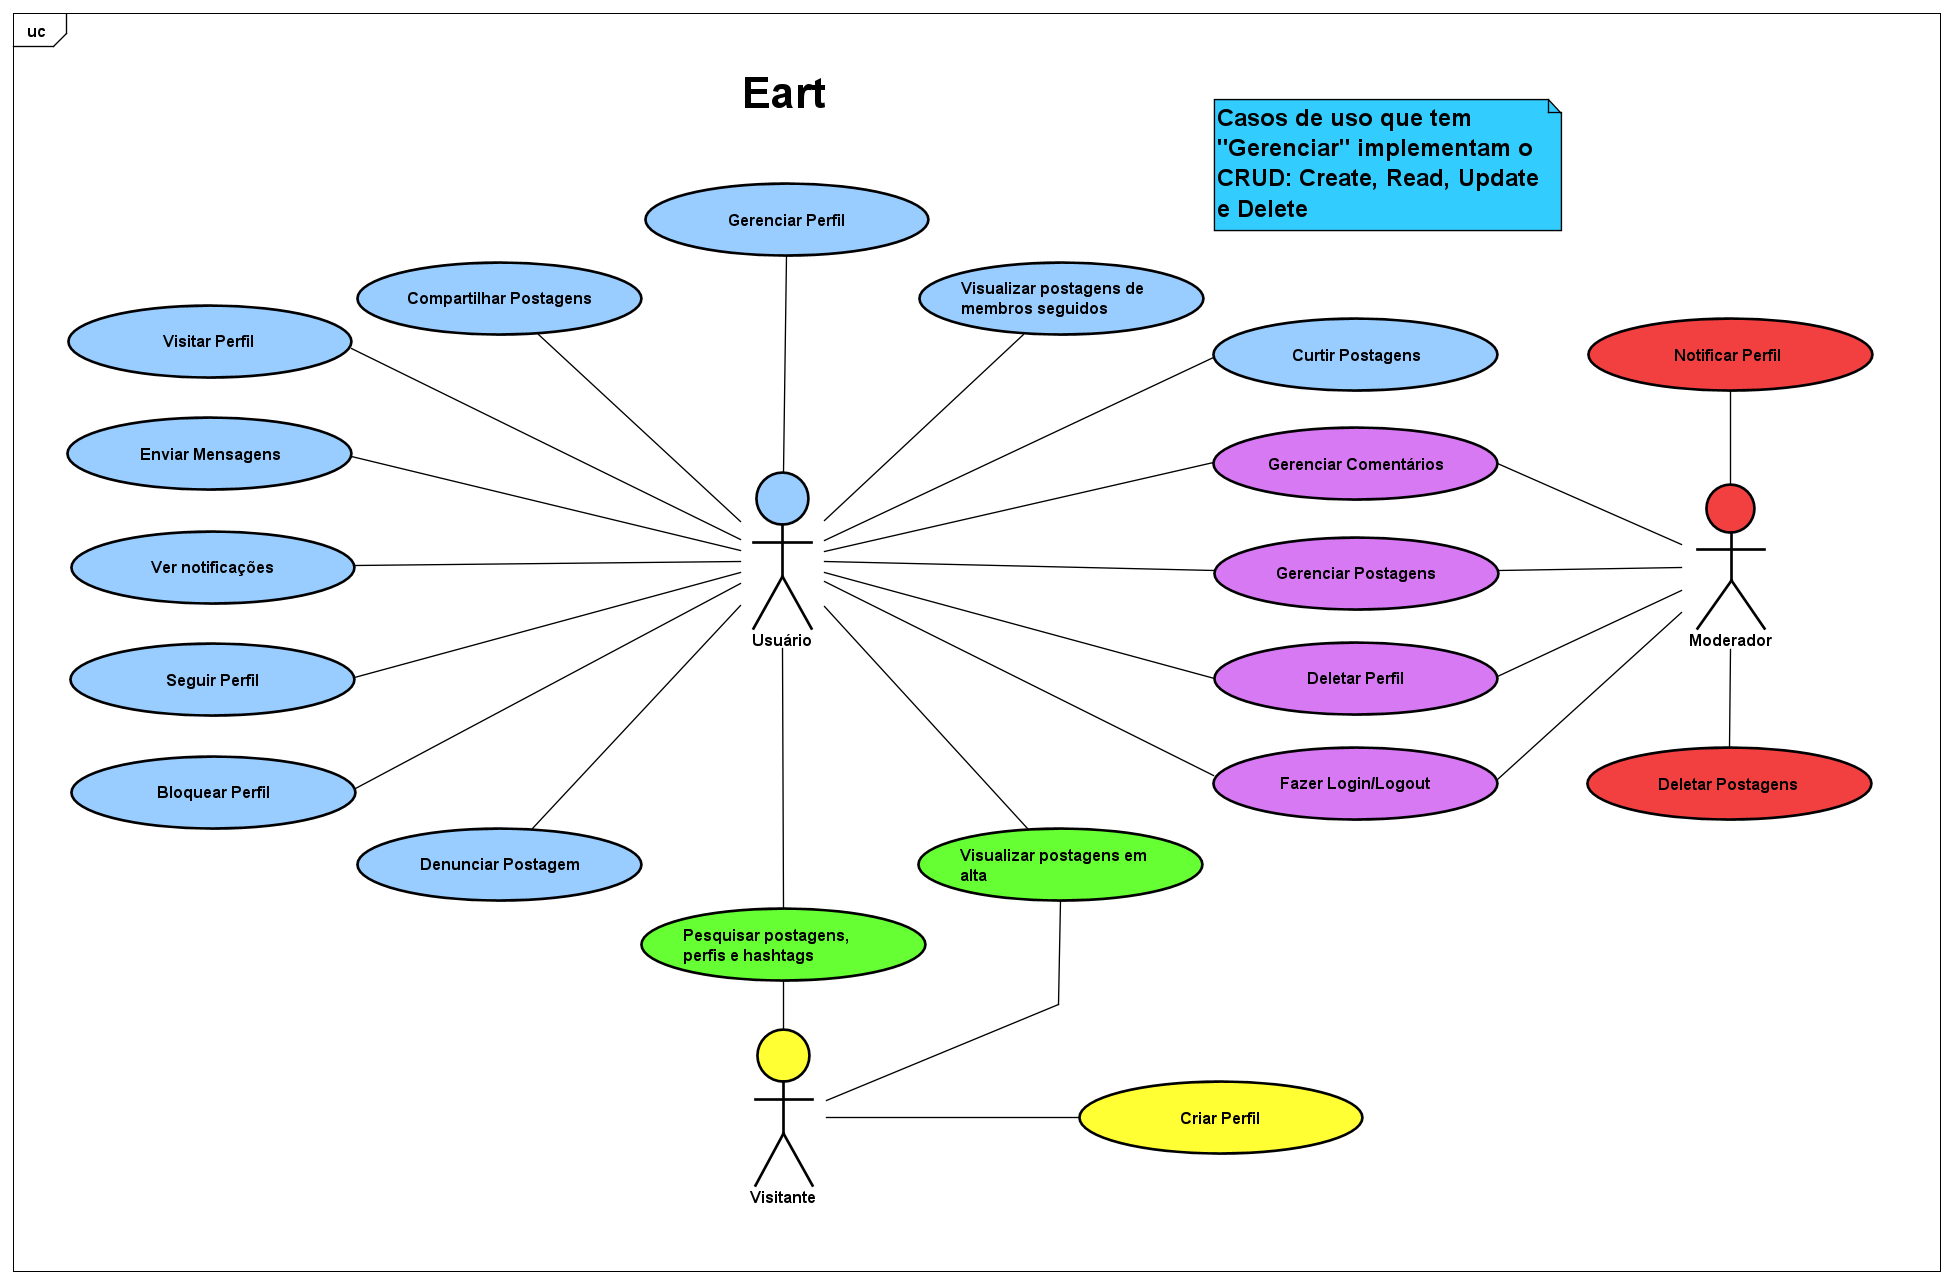
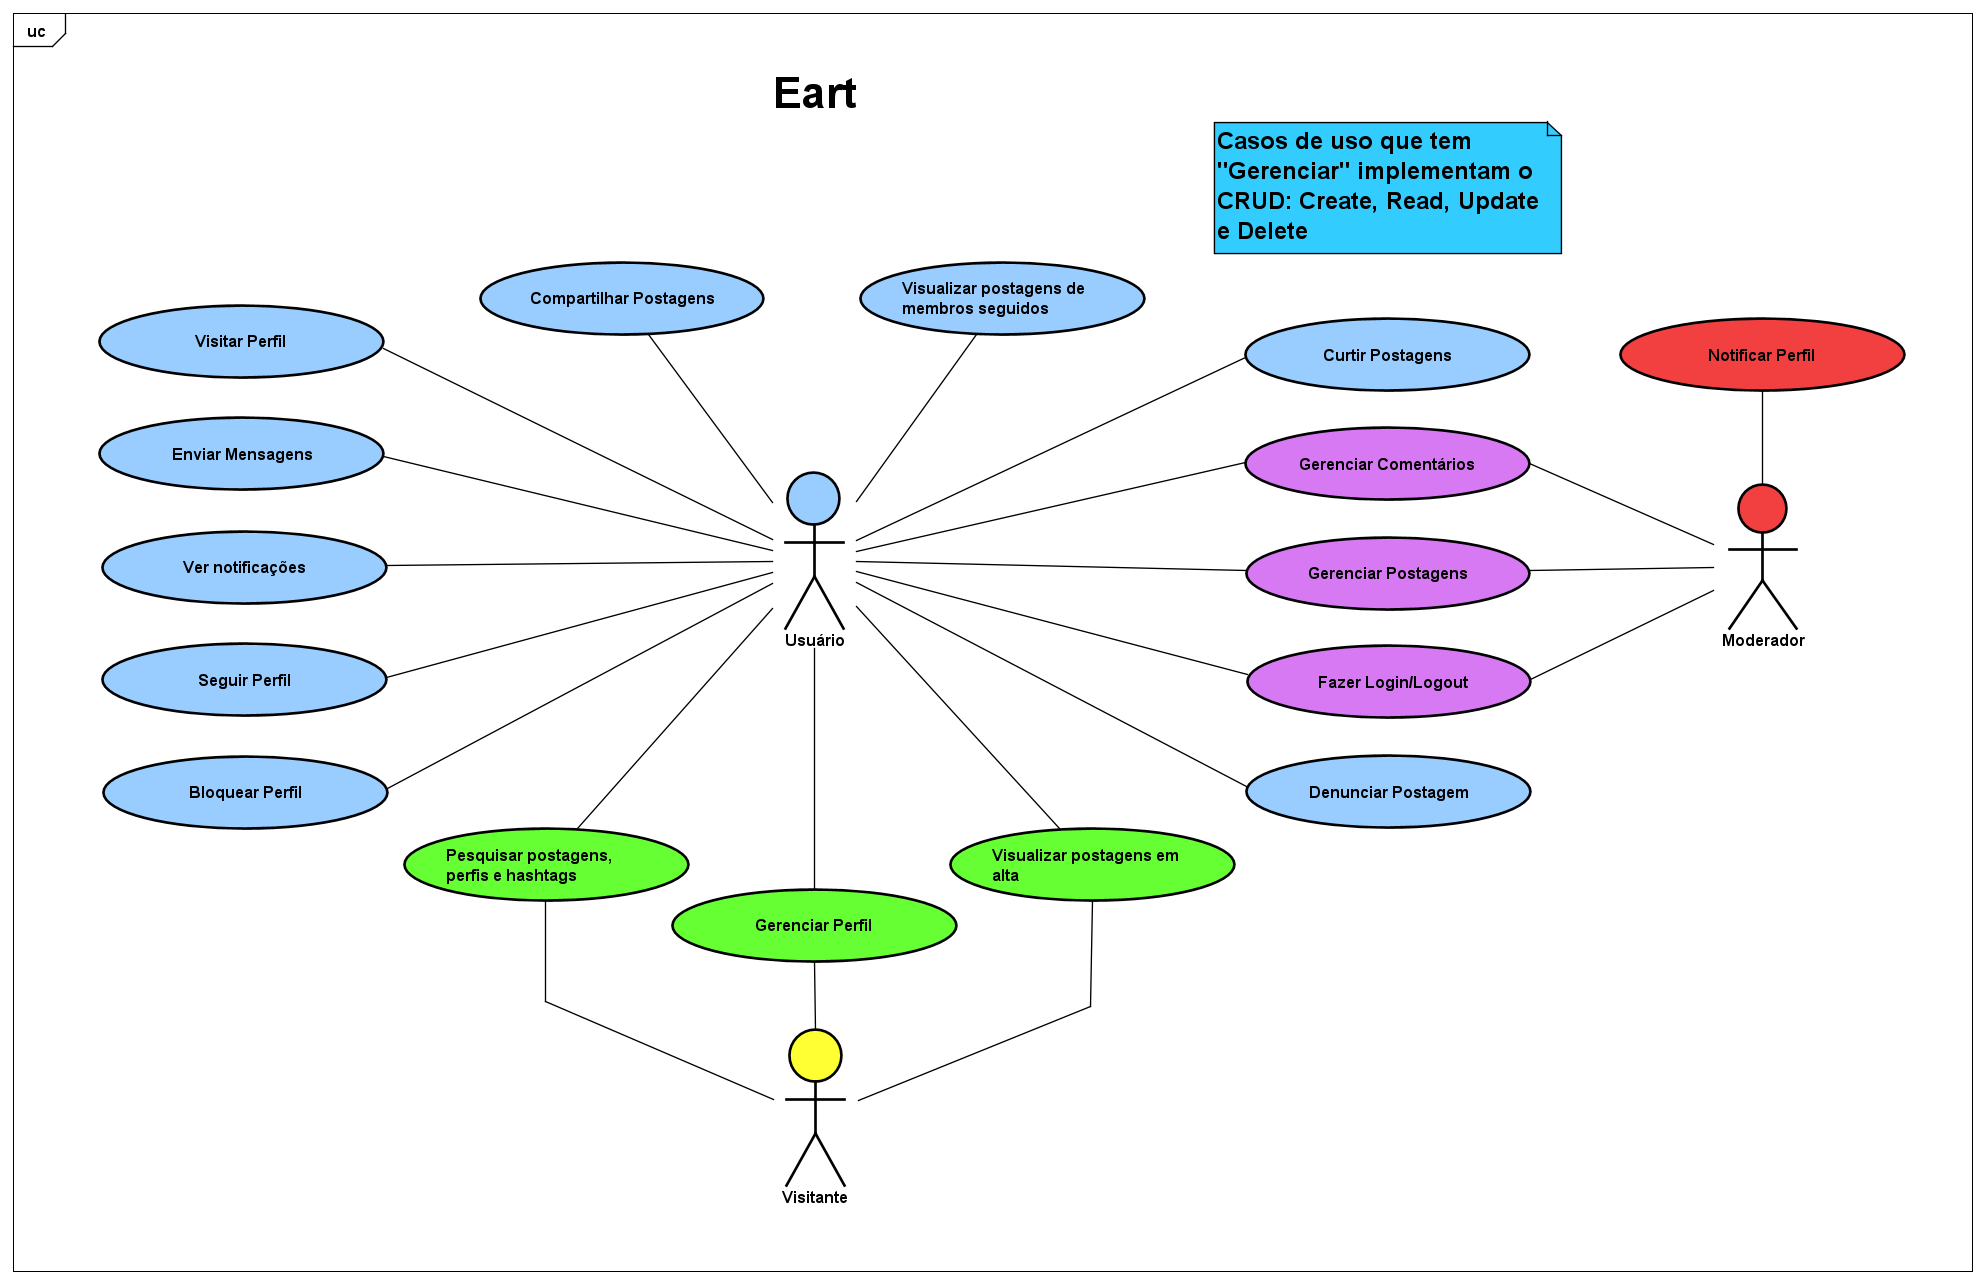
Alterando a Visão de Produto

diff --git a/docs/visao_do_produto.md b/docs/visao_do_produto.md
@@ -50,33 +50,30 @@ Para isso, o sistema precisaria permitir a realização de postagens das ativida
 Como alternativas concorrentes existem os sistema de rede social existentes atualmente: Facebook, Instagram, Pinterest, Twitter, Linkedin, DeviantArt, ArtStation, etc.
 
 ### 7.	Visão geral do produto
-A nova rede social, específica para interessados arte, deve ser construída para uso em navegadores (_browsers_) existentes no mercado. Sua interface com usuário deve possuir um boa usabilidade e para isto deve se aproximar da forma de interação já difundidas nas redes sociais existentes.
+A nova rede social, específic para interessados arte, deve ser construída para uso em navegadores (_browsers_) existentes no mercado. Sua interface com usuário deve possuir um boa usabilidade e para isto deve se aproximar da forma de interação já difundidas nas redes sociais existentes.
 
 O sistema deve possuir uma logo marca que identifique-o e que possa ser utilizado pelos seus membros para divulgação em eventos. 
 
-### 8. Requisitos Funcionais
+### 8. Requisitos Funcionaisa
 
 | Código | Nome | Descrição |
 |:---  |:--- |:--- |
-| RF01 | Gerenciar perfil (conta)| Este requisito tem o propósito de habilitar o membro da rede a consultar e atualizar seus dados de perfil. |
-| RF02 | Criar perfil | Permite que pessoas visitantes da rede possam realizar seu cadastro e começar a participar fazendo postagens de suas artes. |
-| RF03 | Deletar perfil | Um membro pode cancelar seu perfil quando quiser ou, por questões de ordem ética, um administrador da rede pode realizar o cancelamento. |
-| RF04 | Bloquear perfil | Os membros devem ter a opção de bloquear outros perfis. |
-| RF05 | Visitar perfil | Membros podem visitar o perfil de outros membros. |
-| RF06 | Seguir perfil | Um membro pode seguir outros membros da rede e acompanhar o conteúdo postado por eles. |
-| RF07 | Gerenciar postagens | Membros da rede podem criar, consultar, editar e excluir suas postagens. Como forma de moderar postagens abusivas, o administrador do sistema poderá excluir uma postagem. |
-| RF08 | Denunciar postagem | Permite que os membros denunciem postagens. |
-| RF09 | Curtir postagens | Os membros da rede podem apreciar uma postagem apenas dando um like. |
-| RF10 | Compartilhar postagens| Possibilita aos membros compartilhar postagens de outros membros no próprio perfil. |
-| RF11 | Gerenciar comentários | Membros da rede podem criar, consultar, editar e excluir comentários em suas postagens ou na de outros membros. Como forma de moderar comentários abusivos, o administrador do sistema poderá excluir um comentário. |
-| RF12 | Visualizar postagens em alta | Visitantes e membros podem visualizar postagens em alta. |
-| RF13 | Visualizar postagens de membros seguidos | Membros podem visualizar postagens de membros que eles seguem. |
-| RF14 | Pesquisar postagens, perfis e hashtags | Membros e visitantes podem pesquisar postagens, perfis e hashtags. |
-| RF15 | Enviar mensagens | O sistem deve permitir a comunicação entre os membros da rede, onde as mensagens devem ser enviadas e consultadas no próprio sistema. |
-| RF16 | Ver notificações | Membros podem ver notificações sobre suas interações na rede. |
-| RF17 | Fazer login / logout | Membros podem entrar e sair da conta. |
-| RF18 | Notificar perfil | Moderadores podem notificar o perfil dos membros caso eles descumpram as diretrizes do site. |
-| RF19 | Deletar postagem | Moderadores podem deletar postagens que descumprem as diretrizes do site. |
+| RF01 | Gerenciar perfil (conta)| Este requisito tem o propósito de habilitar o membro da rede a criar, consultar, editar e excluir seus dados de perfil. A opção de criar só fica disponível para o visitante para que ele possa realizar seu cadastro e começar a fazer suas postagens. A opção de consultar e editar só fica disponível para quem já tem um perfil cadastrado. A opção de excluir (cancelar), ela fica visível para o dono do perfil e para o moderador, que por questões de ordem ética, pode realizar o cancelamento. |
+| RF02 | Bloquear perfil | Os membros devem ter a opção de bloquear outros perfis. |
+| RF03 | Visitar perfil | Membros podem visitar o perfil de outros membros. |
+| RF04 | Seguir perfil | Um membro pode seguir outros membros da rede e acompanhar o conteúdo postado por eles. |
+| RF05 | Gerenciar postagens | Membros da rede podem criar, consultar, editar e excluir suas postagens. Como forma de moderar postagens abusivas, o administrador do sistema poderá excluir uma postagem. |
+| RF06 | Denunciar postagem | Permite que os membros denunciem postagens. |
+| RF07 | Curtir postagens | Os membros da rede podem apreciar uma postagem apenas dando um like. |
+| RF08 | Compartilhar postagens| Possibilita aos membros compartilhar postagens de outros membros no próprio perfil. |
+| RF09 | Gerenciar comentários | Membros da rede podem criar, consultar, editar e excluir comentários em suas postagens ou na de outros membros. Como forma de moderar comentários abusivos, o administrador do sistema poderá excluir um comentário. |
+| RF10 | Visualizar postagens em alta | Visitantes e membros podem visualizar postagens em alta. |
+| RF11 | Visualizar postagens de membros seguidos | Membros podem visualizar postagens de membros que eles seguem. |
+| RF12 | Pesquisar postagens, perfis e hashtags | Membros e visitantes podem pesquisar postagens, perfis e hashtags. |
+| RF13 | Enviar mensagens | O sistema deve permitir a comunicação entre os membros da rede, onde as mensagens devem ser enviadas e consultadas no próprio sistema. |
+| RF14 | Ver notificações | Membros podem ver notificações sobre suas interações na rede. O usuário pode receber notificação por interações de outros membros em suas postagens ou por ter recebido mensagens diretas. |
+| RF15 | Fazer login / logout | Membros podem entrar e sair da conta. |
+| RF16 | Notificar perfil | Moderadores podem notificar o perfil dos membros caso eles descumpram as diretrizes do site. |
 
 
 ### 9. Requisitos não-funcionais

diff --git a/docs/casos_de_uso/dcu_criar_perfil.md b/docs/casos_de_uso/dcu_criar_perfil.md
@@ -1,0 +1,40 @@
+# Projeto Rede Social (Eart)
+
+## Detalhamento do caso de uso - Criar perfil
+
+### Histórico da Revisão: 
+
+|  Data  | Versão | Descrição | Autor |
+|:-------|:-------|:----------|:------|
+| 09/07/2021 | **`1.0`** | Versão Inicial  | Alexsander Anulino, Aristóteles Daniel, Marcos Vinícius, Mariana Raquel, Viviane Pereira |
+
+### 1. Resumo: 
+
+Este caso de uso permite que os visitantes possam criar sua conta na rede social.
+
+### 2. Atores: 
+
+Visitantes.
+
+### 3.Pós-condições:
+
+O sistema deve disponibilizar de forma rápida o cadastro no sistema.
+
+### 4. Fluxos de evento:
+
+#### 4.1. Fluxo Principal:
+|  Ator  | Sistema |
+|:-------|:------- |
+| 1. O usuário aciona a funcionalidade de fazer cadastro na interface gráfica do sistema. ||
+|| 2. O sistema apresenta um espaço na interface para registrar os dados do usuário (nome, email e senha). |
+| 3. O usuário preenche seus dados. ||
+|| 4. O sistema grava os dados do usuário no sistema e registra sua conta. |
+| 5. Após a conta ser registrada, o usuário visualiza a tela inicial do site. ||
+
+#### 4.2. Fluxo de excessão: 
+    a) Email inválido: caso o usuário tente submeter um email já registrado, o sistema deve alertá-lo e solicitar um novo email.
+    b) Senha inválida: caso o usuário tente submeter uma senha com menos de 8 dígitos, o sistema deve alertá-lo e solicitar a senha novamente.
+
+### 5. Prototipos de Interface:
+
+`Em desenvolvimento.`
